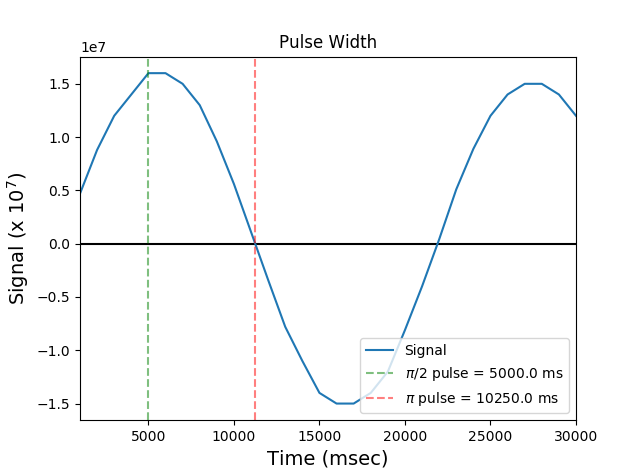
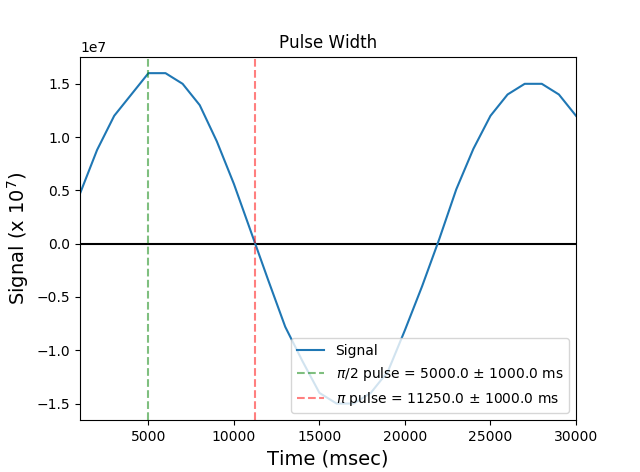
lies are just uncertainty; I think my units might be off

Changed region(s): [[0.4375, 0.7119, 0.8125, 0.8602]]

diff --git a/nmr/plot_ispin_nmr_data_pulsewidth.py b/nmr/plot_ispin_nmr_data_pulsewidth.py
@@ -95,7 +95,7 @@ tscale = 1e3   # change time units to msec
 tunits = 'msec'
 pi2_pulse = t[A.argmax()]*tscale
 pi_pulse  = 11.25*tscale
-pulse_uncertainty = 500*tscale / 2 #500microsec from spincore graph precision
+pulse_uncertainty = 1*tscale #microsec from spincore graph precision
 
 # plot the points
 ax1.plot(t*tscale,A,label='Signal')
